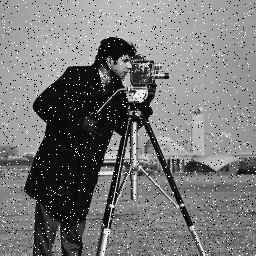
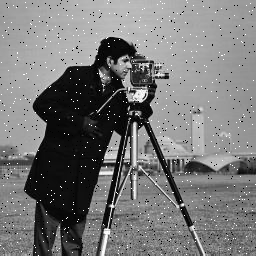
Update

Changed region(s): [[0.75, 0.125, 0.7812, 0.1562], [0.2188, 0.0312, 0.25, 0.0625], [0.1562, 0.1875, 0.1875, 0.2188]]

diff --git a/main.py b/main.py
@@ -7,7 +7,7 @@ def loadImage():
     return np.array(img, dtype=np.float64)
 
 #add salt and pepper noise
-def addNoise(img, prob = 0.05):
+def addNoise(img, prob = 0.01):
     noise = img.copy()
     rand = np.random.default_rng(1)
     map = rand.random(img.shape)